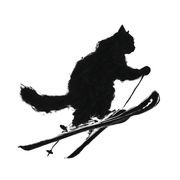
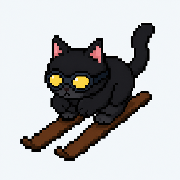
Prepare Cat Ski artwork and title integration

Changed region(s): [[0.0833, 0.1111, 0.8889, 0.9167]]

diff --git a/index.html b/index.html
@@ -76,13 +76,13 @@
 <meta name="description" content="A free browser game inspired by SkiFree (1991). Play as a cat skiing down an endless mountain. Three regional themes (Alps, Rockies, Himalayas), four cat color variants, mid-air tricks, dog and snowman chasers, tunable difficulty. Installable as a Progressive Web App.">
 
 <!-- Favicons -->
-<link rel="icon" type="image/x-icon" href="/favicon.ico">
-<link rel="icon" type="image/png" sizes="16x16" href="/favicon-16.png">
-<link rel="icon" type="image/png" sizes="32x32" href="/favicon-32.png">
-<link rel="icon" type="image/png" sizes="48x48" href="/favicon-48.png">
-<link rel="apple-touch-icon" sizes="180x180" href="/apple-touch-icon.png">
-<link rel="icon" type="image/png" sizes="192x192" href="/icon-192.png">
-<link rel="icon" type="image/png" sizes="512x512" href="/icon-512.png">
+<link rel="icon" type="image/x-icon" href="/favicon.ico?v=19">
+<link rel="icon" type="image/png" sizes="16x16" href="/favicon-16.png?v=19">
+<link rel="icon" type="image/png" sizes="32x32" href="/favicon-32.png?v=19">
+<link rel="icon" type="image/png" sizes="48x48" href="/favicon-48.png?v=19">
+<link rel="apple-touch-icon" sizes="180x180" href="/apple-touch-icon.png?v=19">
+<link rel="icon" type="image/png" sizes="192x192" href="/icon-192.png?v=19">
+<link rel="icon" type="image/png" sizes="512x512" href="/icon-512.png?v=19">
 <meta name="theme-color" content="#0b1320">
 
 <!-- Structured data: VideoGame -->
@@ -94,7 +94,7 @@
   "alternateName": "cat-ski",
   "description": "A free browser game inspired by SkiFree (1991). Play as a cat skiing down an endless mountain. Three regional themes (Alps, Rockies, Himalayas), four cat color variants, mid-air tricks, dog and snowman chasers, tunable difficulty, and a 9-lives mode. Installable as a Progressive Web App for offline play.",
   "url": "https://ski.unwoke.ninja/",
-  "image": "https://ski.unwoke.ninja/preview.png",
+  "image": "https://ski.unwoke.ninja/preview.png?v=19",
   "inLanguage": ["en", "es"],
   "applicationCategory": "GameApplication",
   "gamePlatform": ["Web Browser", "PWA"],
@@ -133,12 +133,12 @@
 <!-- Open Graph (iMessage, Slack, Discord, Facebook, LinkedIn, WhatsApp) -->
 <meta property="og:title" content="CAT SKI // 1989">
 <meta property="og:description" content="A free browser game inspired by SkiFree (1991). Play as a cat down an endless mountain. Three themes, mid-air tricks, dog and snowman chasers, tunable difficulty.">
-<meta property="og:image" content="https://ski.unwoke.ninja/preview.png">
-<meta property="og:image:secure_url" content="https://ski.unwoke.ninja/preview.png">
+<meta property="og:image" content="https://ski.unwoke.ninja/preview.png?v=19">
+<meta property="og:image:secure_url" content="https://ski.unwoke.ninja/preview.png?v=19">
 <meta property="og:image:type" content="image/png">
 <meta property="og:image:width" content="1200">
 <meta property="og:image:height" content="630">
-<meta property="og:image:alt" content="Pixel-art downhill skiing scene with a cat, a dog, a yeti, and a skier on a peak">
+<meta property="og:image:alt" content="Black cat with yellow goggles skiing through snowy Alps, chased by a German shepherd and a top-hat snowman">
 <meta property="og:url" content="https://ski.unwoke.ninja/">
 <meta property="og:type" content="website">
 <meta property="og:site_name" content="cat-ski">
@@ -147,8 +147,8 @@
 <meta name="twitter:card" content="summary_large_image">
 <meta name="twitter:title" content="CAT SKI // 1989">
 <meta name="twitter:description" content="A free browser game inspired by SkiFree (1991). Play as a cat down an endless mountain. Three themes, mid-air tricks, dog and snowman chasers, tunable difficulty.">
-<meta name="twitter:image" content="https://ski.unwoke.ninja/preview.png">
-<meta name="twitter:image:alt" content="Pixel-art downhill skiing scene with a cat, a dog, a yeti, and a skier on a peak">
+<meta name="twitter:image" content="https://ski.unwoke.ninja/preview.png?v=19">
+<meta name="twitter:image:alt" content="Black cat with yellow goggles skiing through snowy Alps, chased by a German shepherd and a top-hat snowman">
 <style>
   /* ---------- RETRO PIXEL AESTHETIC ----------
      Chunky HUD with a CRT vibe. Cool blue snow palette with a single
@@ -584,16 +584,21 @@
   .overlay.hidden { display: none; }
 
   /* Start screen uses the social preview image as its backdrop for
-     visual continuity with shared links. A dark gradient on top keeps
-     the panel legible. Image scaled with crisp-edges to keep its
+     visual continuity with shared links. A light tint keeps the snow
+     from competing with the opaque panel. Image scaled with crisp-edges to keep its
      pixel-art character at the rendered size. */
   #overlay-start {
     background:
-      linear-gradient(rgba(5,10,20,0.55), rgba(5,10,20,0.85)),
-      url('preview.png') center/cover no-repeat;
+      linear-gradient(rgba(5,10,20,0.16), rgba(5,10,20,0.28)),
+      url('preview.png?v=19') center/cover no-repeat;
     image-rendering: pixelated;
     image-rendering: crisp-edges;
     backdrop-filter: none;
+    /* Use the open sky so the downhill characters remain visible. */
+    align-items: start;
+    justify-items: start;
+    padding-top: clamp(20px, 8%, 56px);
+    padding-left: clamp(20px, 6%, 56px);
   }
 
   .panel {
@@ -1197,6 +1202,22 @@
   body.mobile-layout .panel p  { font-size: 17px; }
   body.mobile-layout .panel .keys { gap: 4px 12px; margin: 10px 0 6px; font-size: var(--type-sm); }
   body.mobile-layout .panel .hint { font-size: var(--type-sm); margin-top: 12px; }
+  /* Fit the start prompt inside the small 4:3 window. Other overlays
+     retain their existing layout and type sizes. */
+  body.mobile-layout #overlay-start { padding: 10px; align-items: start; justify-items: center; }
+  body.mobile-layout #overlay-start .panel { padding: 10px 14px; }
+  body.mobile-layout #overlay-start h1 { font-size: 16px; margin-bottom: 4px; }
+  body.mobile-layout #overlay-start h2 { font-size: 10px; margin-bottom: 6px; }
+  body.mobile-layout #overlay-start p { font-size: 15px; line-height: 1.15; margin: 4px 0; }
+  body.mobile-layout #overlay-start .keys { gap: 2px 10px; margin: 6px 0; font-size: 8px; }
+  body.mobile-layout #overlay-start .keys kbd { padding: 2px 5px; font-size: 8px; }
+  body.mobile-layout #overlay-start .hint { font-size: 8px; margin-top: 8px; }
+  body.mobile-layout #overlay-start .readme-link { font-size: 8px; margin-top: 6px; }
+  body.touch-active #overlay-start .keys { display: none; }
+  @media (max-width: 600px) {
+    body:not(.mobile-layout) #overlay-start { display: flex; justify-content: center; padding: 12px; }
+    body:not(.mobile-layout) #overlay-start .panel { max-height: 100%; overflow-y: auto; }
+  }
   body.mobile-layout .footer { font-size: var(--type-sm); padding: 8px 0; }
 
   /* Credit line — small but visible, dotted underline on the link */

diff --git a/readme.html b/readme.html
@@ -51,7 +51,7 @@
 <meta property="og:type" content="article">
 <meta property="og:title" content="Cat Ski README: how to play">
 <meta property="og:description" content="How to play Cat Ski, the free SkiFree-style browser skiing game. Controls, the cats and the mountains, and the dog on your tail.">
-<meta property="og:image" content="https://ski.unwoke.ninja/preview.png">
+<meta property="og:image" content="https://ski.unwoke.ninja/preview.png?v=19">
 <meta property="og:image:width" content="1200">
 <meta property="og:image:height" content="630">
 <meta property="og:url" content="https://ski.unwoke.ninja/readme.html">
@@ -63,13 +63,13 @@
 <meta name="twitter:card" content="summary_large_image">
 <meta name="twitter:title" content="Cat Ski README: how to play">
 <meta name="twitter:description" content="How to play Cat Ski, the free browser skiing game. Controls, cats, mountains, and the dog on your tail.">
-<meta name="twitter:image" content="https://ski.unwoke.ninja/preview.png">
+<meta name="twitter:image" content="https://ski.unwoke.ninja/preview.png?v=19">
 
-<link rel="icon" type="image/x-icon" href="/favicon.ico">
-<link rel="icon" type="image/png" sizes="16x16" href="/favicon-16.png">
-<link rel="icon" type="image/png" sizes="32x32" href="/favicon-32.png">
-<link rel="icon" type="image/png" sizes="48x48" href="/favicon-48.png">
-<link rel="apple-touch-icon" sizes="180x180" href="/apple-touch-icon.png">
+<link rel="icon" type="image/x-icon" href="/favicon.ico?v=19">
+<link rel="icon" type="image/png" sizes="16x16" href="/favicon-16.png?v=19">
+<link rel="icon" type="image/png" sizes="32x32" href="/favicon-32.png?v=19">
+<link rel="icon" type="image/png" sizes="48x48" href="/favicon-48.png?v=19">
+<link rel="apple-touch-icon" sizes="180x180" href="/apple-touch-icon.png?v=19">
 <meta name="theme-color" content="#0b1320">
 
 <!-- Structured data: TechArticle -->
@@ -80,7 +80,7 @@
   "headline": "How to play Cat Ski",
   "alternativeHeadline": "Controls, gameplay, and FAQ for the Cat Ski browser game",
   "description": "How to play Cat Ski, the free SkiFree-style browser skiing game: the controls, the cats and the mountains, the dog and the snowman, and answers to common questions.",
-  "image": "https://ski.unwoke.ninja/preview.png",
+  "image": "https://ski.unwoke.ninja/preview.png?v=19",
   "datePublished": "2026-04-25",
   "dateModified": "2026-07-10",
   "inLanguage": "en",

diff --git a/sw.js b/sw.js
@@ -15,20 +15,21 @@
  * force all old caches to clear on next visit.
  */
 
-const CACHE_NAME = 'cat-ski-v18';
+const CACHE_NAME = 'cat-ski-v19';
 const APP_SHELL = [
   '/',
   '/index.html',
   '/readme.html',
   '/manifest.json',
-  '/preview.png',
-  '/favicon.ico',
-  '/favicon-16.png',
-  '/favicon-32.png',
-  '/favicon-48.png',
-  '/apple-touch-icon.png',
-  '/icon-192.png',
-  '/icon-512.png',
+  '/preview.png?v=19',
+  '/favicon.ico?v=19',
+  '/favicon-16.png?v=19',
+  '/favicon-32.png?v=19',
+  '/favicon-48.png?v=19',
+  '/apple-touch-icon.png?v=19',
+  '/icon-192.png?v=19',
+  '/icon-512.png?v=19',
+  '/icon-maskable-512.png?v=19',
   '/fonts/press-start-2p.woff2',
   '/fonts/vt323.woff2',
 ];
